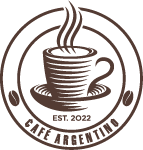
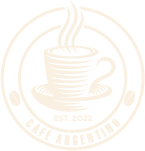
Add files via upload

diff --git a/index.html b/index.html
@@ -28,8 +28,7 @@
 <!-- SLIDER -->
 
     <figure id="galeria">
-        <div class="galeria">
-                        <div id="myCarousel" class="carousel">
+            <div id="myCarousel" class="carousel">
                         <div class="carousel__slide">
                           <img data-lazy-src="img/galeria/1.jpg">
                         </div>
@@ -60,7 +59,7 @@
                           <div class="carousel__slide">
                             <img data-lazy-src="img/galeria/10.jpg">
                           </div>
-                      </div>
+              </div>
     </figure>
 
 <!-- FIN -->
@@ -68,11 +67,12 @@
 <!-- HERO -->
 
     <header id="nosotros" class="encabezado">       
-            <img src="img/hero.png" alt="Café Argentino"> <div class="centrar">
+      <div class="centrar">  
+        <img src="img/hero.png" alt="Café Argentino">
         <p class="titulo">UN CAFÉ A TU MEDIDA</p>
         <h1>Café Argentino es la primera productora de café 100% Argentino, mano de obra local y la mayor calidad en nuestros productos para que tengas siempre lo mejor.</h1>
         <a href="#sabermas" class="boton">¿QUERÉS SABER MAS?</a>
-    </div>
+      </div>
     </header>
 
 <!-- FIN HERO -->
@@ -129,28 +129,22 @@
     <section id="productos" class="contenedor">
       <h2 class="titulo">PRODUCTOS</h2>
       <div class="productos">
-        <a href="img/productos/1.jpg" data-fancybox="gallery"
-        data-caption="INTENSO">
+        <a href="img/productos/1.jpg" data-fancybox="gallery" data-caption="INTENSO">
           <img src="img/productos/chicas/1.jpg" alt="producto_1">
         </a>
-        <a href="img/productos/2.jpg" data-fancybox="gallery"
-        data-caption="SELECTO">
+        <a href="img/productos/2.jpg" data-fancybox="gallery" data-caption="SELECTO">
           <img src="img/productos/chicas/2.jpg" alt="producto_2">
         </a>
-        <a href="img/productos/3.jpg" data-fancybox="gallery"
-        data-caption="NATURAL">
+        <a href="img/productos/3.jpg" data-fancybox="gallery" data-caption="NATURAL">
           <img src="img/productos/chicas/3.jpg" alt="producto_3">
         </a>
-        <a href="img/productos/4.jpg" data-fancybox="gallery"
-        data-caption="GRAN AROMA">
+        <a href="img/productos/4.jpg" data-fancybox="gallery" data-caption="GRAN AROMA">
           <img src="img/productos/chicas/4.jpg" alt="producto_4">
         </a>
-        <a href="img/productos/5.jpg" data-fancybox="gallery"
-        data-caption="PIKE PLACE">
+        <a href="img/productos/5.jpg" data-fancybox="gallery" data-caption="PIKE PLACE">
           <img src="img/productos/chicas/5.jpg" alt="producto_5">
         </a>
-        <a href="img/productos/6.jpg" data-fancybox="gallery"
-        data-caption="MEZCLA">
+        <a href="img/productos/6.jpg" data-fancybox="gallery" data-caption="MEZCLA">
           <img src="img/productos/chicas/6.jpg" alt="producto_6">
         </a>
       </div>

diff --git a/estilos.css b/estilos.css
@@ -28,8 +28,8 @@ body{
 /*barra de navegacion*/
 
 nav{
-    z-index: 10;
-    height: 85px;
+    z-index: 1000;
+    height: 60px;
     display: flex;
     align-items: center;
     position: fixed;
@@ -40,7 +40,8 @@ nav{
 }
 
 .contenedor{
-    width: 1000px;
+    margin-top: 120px;
+    width: 1300px;
 }
 
 .nav{
@@ -80,22 +81,33 @@ nav{
 /*figure*/
 
 #galeria{
-    margin-top: 85px;
+    background-color: rgb(17, 17, 17);
     width: 100%;
-    height: 350px;
     overflow: hidden;
 }
 
+.carousel {
+    color: rgb(250, 240, 225);
+    --carousel-button-svg-stroke-width: 0;
+  }
+  
+  .carousel__slide {
+    display: flex;
+    align-items: center;
+    justify-content: center;
+    width: 100%;
+  }
 /*fin figure*/
 
 /*encabezado*/
 
 header{
+    background-color: rgb(17, 17, 17);
     background-image: url(img/logoizq.png);
     background-position: center;
     background-repeat: no-repeat;
     width: 100%;
-    margin: 50px auto;
+    margin: auto;
 }
 
 .centrar{
@@ -105,6 +117,33 @@ header{
     justify-content: center;
     align-items: center;
     text-align: center;
+}
+
+.centrar img{
+    margin: 30px;
+}
+
+.centrar .titulo{
+    color: rgb(250, 240, 225);
+}
+
+.encabezado .centrar h1{
+    color: rgb(250, 240, 225);
+}
+
+.centrar .boton{
+    color: rgb(250, 240, 225);
+    font-family: 'Barlow Condensed', sans-serif;
+    font-size: 18px;
+    border: 1px solid;
+    display: block;
+    text-align: center;
+    line-height: 35px;
+    border-radius: 50px;
+    width: 170px;
+    height: 40px;
+    margin-top: 40px;
+    transition: all 200ms ease;
 }
 
 .boton{
@@ -132,6 +171,7 @@ header{
     flex-direction: column;
     align-items: center;
     flex-wrap: nowrap;
+    height: 500px;
 }
 
 .encabezado div{
@@ -318,10 +358,10 @@ article h2{
     width: 100%;
     height: 450px;
     color: black;
-    background-color:  rgb(208, 208, 208);
+    background-color:  rgb(255, 255, 255);
     margin: 15px;
     transition: all 300ms ease;
-    border: 2px solid rgba(0, 0, 0, 0.3);
+    border: 2px solid rgba(78, 78, 78, 0.3);
     filter: grayscale();
 }
 
@@ -390,7 +430,7 @@ article h2{
 
 .campocons{
     margin-top: 20px;
-    height: 400px;
+    height: 300px;
 }
 
 
